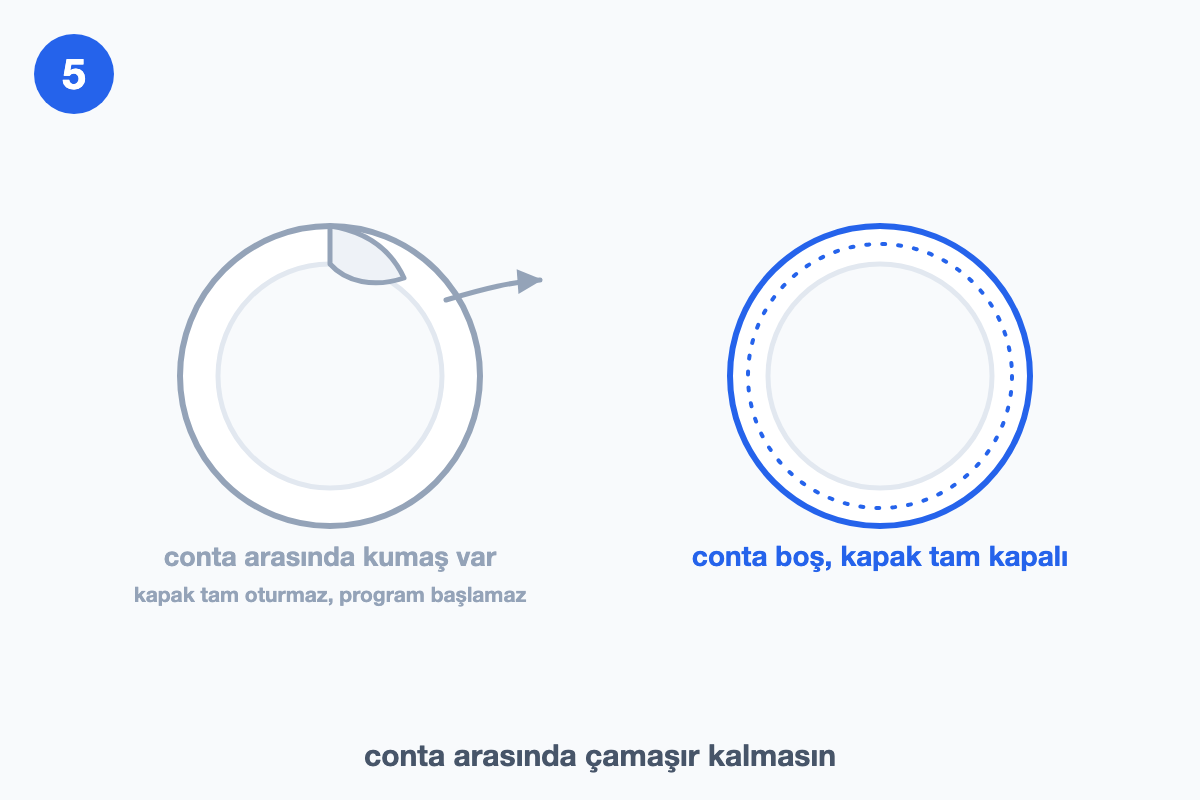
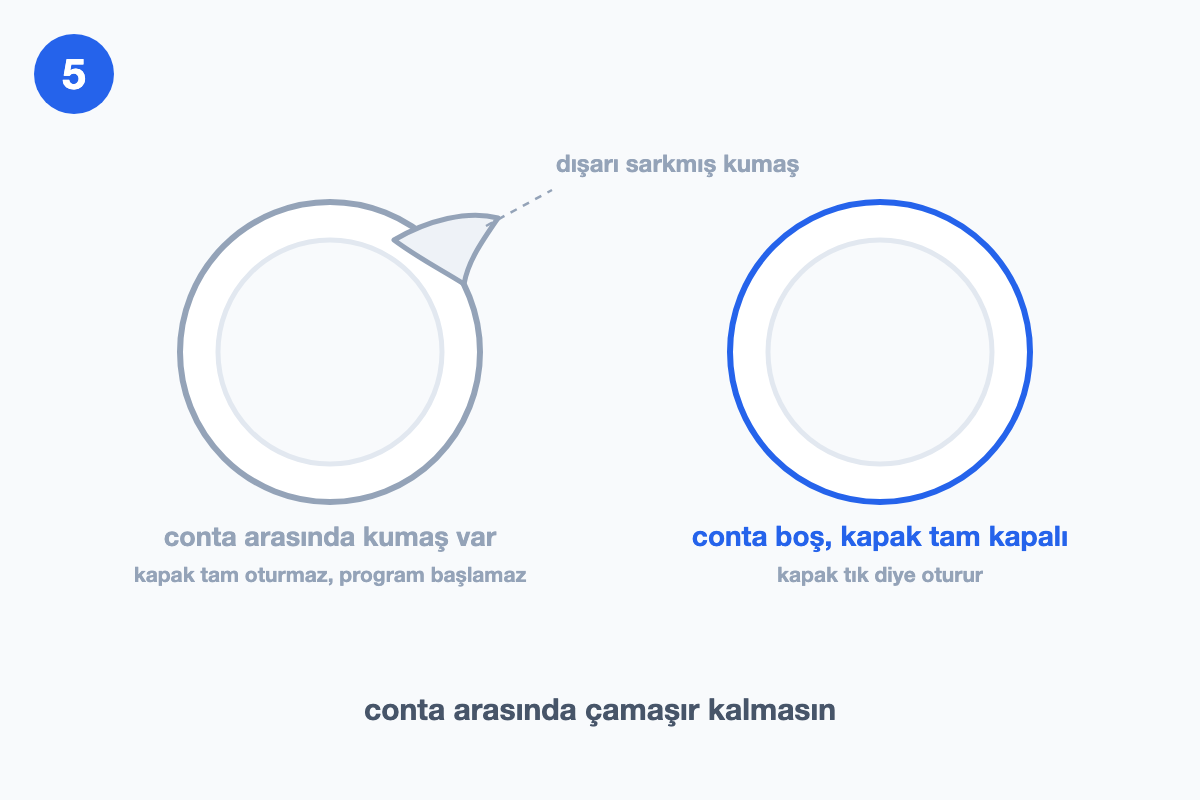
Adim gorseli dalga 1 tur-2: 22 kare baglandi + tambur QC duzeltmesi (SW v9)
GRF teslimi 4 yazi / 30 kare diyordu. Kaynaktan olculdu, is 22 kare cikti
ve iki noktada foyden sapildi:

1) camasir-makinesi-su-kaciriyor -> IS YOK. 8 karenin md5'i repodakiyle
   BIREBIR AYNI ve images.steps zaten dogru. PR #99 ile 12:49'da girmis.
   Kopyalansaydi bos commit olurdu.

2) camasir-makinesi-tambur-donmuyor -> foy "klasor bostu, hepsi yeni
   dosya" diyordu; DEGIL. Kareler #99 ile zaten repodaydi (foy 12:54'te
   yazildi, merge 12:49 -> okuma 5 dk bayat). GRF sonra 13:00'te ayni
   yaziyi QC duzeltmeleriyle YENIDEN basmis: 7 kare de md5 farkli.
   Kare 1 acildi ve karsilastirildi -> canlidaki etiket "tambura elini
   sokmadan once", yeni render "tambura dokunmadan once". Yani repoda
   ASCII tuzagi CANLIDA duruyordu; yeni kareler onu kapatiyor -> 7 kare
   DEGISTIRILDI.
   ALT METINLER DEGISTIRILMEDI: repodaki 7 alt metin (#99) foyun
   listesinden daha ayrintili ve kareleri dogru anlatiyor (kare 2 acilip
   dogrulandi). Foyun listesi eski taslak -> uygulansaydi metin ZAYIFLARDI.

3) calismiyor (7) + deterjan-almiyor (8) -> gercek is: kareler kopyalandi
   + images.steps alt metinleri eklendi (ikisinde de images: blogu vardi
   ama yalniz coverAlt tasiyordu, steps YOKTU -> gorseller basilmiyordu).

SW v8 -> v9: foy "gerekmez" diyordu, ucu icin dogru. tambur-donmuyor icin
degil -- 7 kare AYNI ADLA degisiyor, /tamir-gorsel/ SWR'de. Surum artmazsa
mevcut ziyaretci "sokmadan" karesini bir acilis daha gorur.
[…]

diff --git a/public/sw.js b/public/sw.js
@@ -53,7 +53,15 @@
 // görsel ise BİR açılış eski kalırdı → kullanıcı "sirke önermiyoruz" cümlesini sirke
 // şişeli kareyle birlikte görürdü; bulaşıkta o kare kapağın kendisi, yani og:image.
 // Bedeli (tüm cache boşalır, herkes yeniden indirir) bu pencereye tercih edildi.
-const SURUM = "benservis-v8";
+// v8 → v9 (22 Ağu, adım görseli dalga 1 tur-2): GRF'nin teslim föyü *"SW sürüm artışı
+// gerekmez — dördünde de klasör boştu, hepsi yeni dosya"* diyordu. **Üçü için doğru,
+// `camasir-makinesi-tambur-donmuyor` için DEĞİL:** föy 12:54'te yazıldı, o kareler
+// 12:49'da PR #99 ile zaten girmişti (föyün "klasörde 0 dosya" okuması 5 dakika bayattı).
+// GRF sonra 13:00'te aynı yazıyı QC düzeltmeleriyle yeniden bastı → 7 kare AYNI ADLA
+// değişiyor. Değişenlerden biri kare 1'in "tambura elini sokmadan önce" etiketi; canlıda
+// duran hâli buydu, yenisi "dokunmadan" diyor. SWR'de sürüm artmazsa mevcut ziyaretçi
+// düzeltmeyi bir açılış boyunca görmez — 19 Ağu'dan beri işleyen kural burada da geçerli.
+const SURUM = "benservis-v9";
 const KABUK_CACHE = `${SURUM}-kabuk`;
 const STATIK_CACHE = `${SURUM}-statik`;
 const DIZIN_CACHE = `${SURUM}-servis-dizini`;

diff --git a/content/blog/camasir-makinesi-deterjan-almiyor.md b/content/blog/camasir-makinesi-deterjan-almiyor.md
@@ -30,6 +30,15 @@ faq:
     a: "O zaman şüphe suyun çekmeceye dağıtıldığı üst düzenek ile su giriş valfine kayar. Valf birden fazla gözlüdür ve bir gözü zayıf çalışıyorsa su yanlış bölmeye ya da yetersiz gelir; üstteki dağıtım kanalları da kireçlenmiş olabilir. Bu kısımlar gövde içinde kaldığı için teşhisi ve müdahalesi servis işidir."
 images:
   coverAlt: "Çamaşır makinesinden dışarı çekilmiş, içinde ıslak deterjan kalıntısı bulunan çekmece"
+  steps:
+    - "Yarım açık musluk ile sonuna kadar açık musluğun su akışı bakımından karşılaştırıldığı çizim"
+    - "Duvara dayalı makinenin arkasında ezilen hortum ile rahat kavis yapan hortumun karşılaştırıldığı çizim"
+    - "Hortumun ağzındaki giriş süzgecinin akan su altında fırçalanışını gösteren çizim"
+    - "Yumuşatıcı gözündeki mandala bastırılarak çekmecenin çıkarılışını gösteren çizim"
+    - "Çekmecenin ılık suda bekletilişini ve gözlerinin diş fırçasıyla fırçalanışını gösteren çizim"
+    - "El feneriyle çekmece yuvasındaki püskürtme deliklerine bakılışını ve nemli bezle silinişini gösteren çizim"
+    - "Çekmecenin üç gözünü ve ana yıkama gözünün hangisi olduğunu gösteren çizim"
+    - "Kurutulan çekmecenin yuvasına oturtuluşunu ve boş kısa programla denenişini gösteren çizim"
 ---
 
 Yıkama bitti, çekmeceyi açtın: deterjan koyduğun gibi duruyor ya da göz su dolu, deterjan çamur gibi yapışmış. Çamaşırlar da son zamanlarda eskisi kadar temiz kokmuyor. Bu belirti kulağa büyük bir arıza gibi gelse de, çoğu vakada suyun deterjana ulaşamamasından ibarettir — ve suyun yolu üzerindeki ilk iki durak, musluk ile çekmece, tamamen senin bakabileceğin yerlerdir. Bu yazıda suyun izlediği yolu baştan sona takip ediyoruz ve hangi noktadan sonra işin servise kaldığını açıkça söylüyoruz.

diff --git a/content/blog/camasir-makinesi-calismiyor.md b/content/blog/camasir-makinesi-calismiyor.md
@@ -29,6 +29,14 @@ faq:
     a: "Çoğu makinede panelde bir kilit ya da çocuk yüzü simgesi vardır; kilit devredeyken tuşa bastığında bu simge yanıp söner ya da makine kısa bir uyarı sesi verir ama komutu almaz. Açma yöntemi markadan markaya değişir — genelde iki tuşa aynı anda birkaç saniye basılı tutulur. Kesin kombinasyon için kendi modelinin kullanım kılavuzuna bak."
 images:
   coverAlt: "Banyoda duvara dayalı duran beyaz çamaşır makinesi ve yanındaki priz"
+  steps:
+    - "Hasarlı bir fiş ile prize tam oturmuş sağlam fişin karşılaştırıldığı çizim"
+    - "Aynı prize test için başka bir cihaz takılışını ve çoklu prizin uygun olmadığını gösteren çizim"
+    - "Sigorta kutusunda kolu düşmüş hat ile kaldırılmış hattın karşılaştırıldığı çizim"
+    - "Kilit dili yuvaya girmeyen kapak ile klik sesiyle kilitlenen kapağın karşılaştırıldığı çizim"
+    - "Panelde yanan çocuk kilidi simgesini ve iki tuşa aynı anda basılışını gösteren çizim"
+    - "Program düğmesinin iki konum arasında kalışı ile tam konuma oturuşunun karşılaştırıldığı çizim"
+    - "Fişi çekip bekledikten sonra tekrar takma denemesini ve servis sınırını gösteren çizim"
 ---
 
 Sepet dolu, deterjan hazır, tuşa basıyorsun — ve hiçbir şey olmuyor. Makine ya tamamen sessiz, ya da ışıklar yanıyor ama program bir türlü başlamıyor. "Çalışmıyor" tek cümle gibi görünse de aslında birkaç farklı durumun ortak adıdır ve bunların önemli bir kısmı makineye hiç dokunmadan, birkaç dakikalık kontrolle çözülür. Bu yazıda en basitten en teknik olana doğru gidiyoruz ve hangi noktadan sonra işin servise kaldığını açıkça söylüyoruz.
